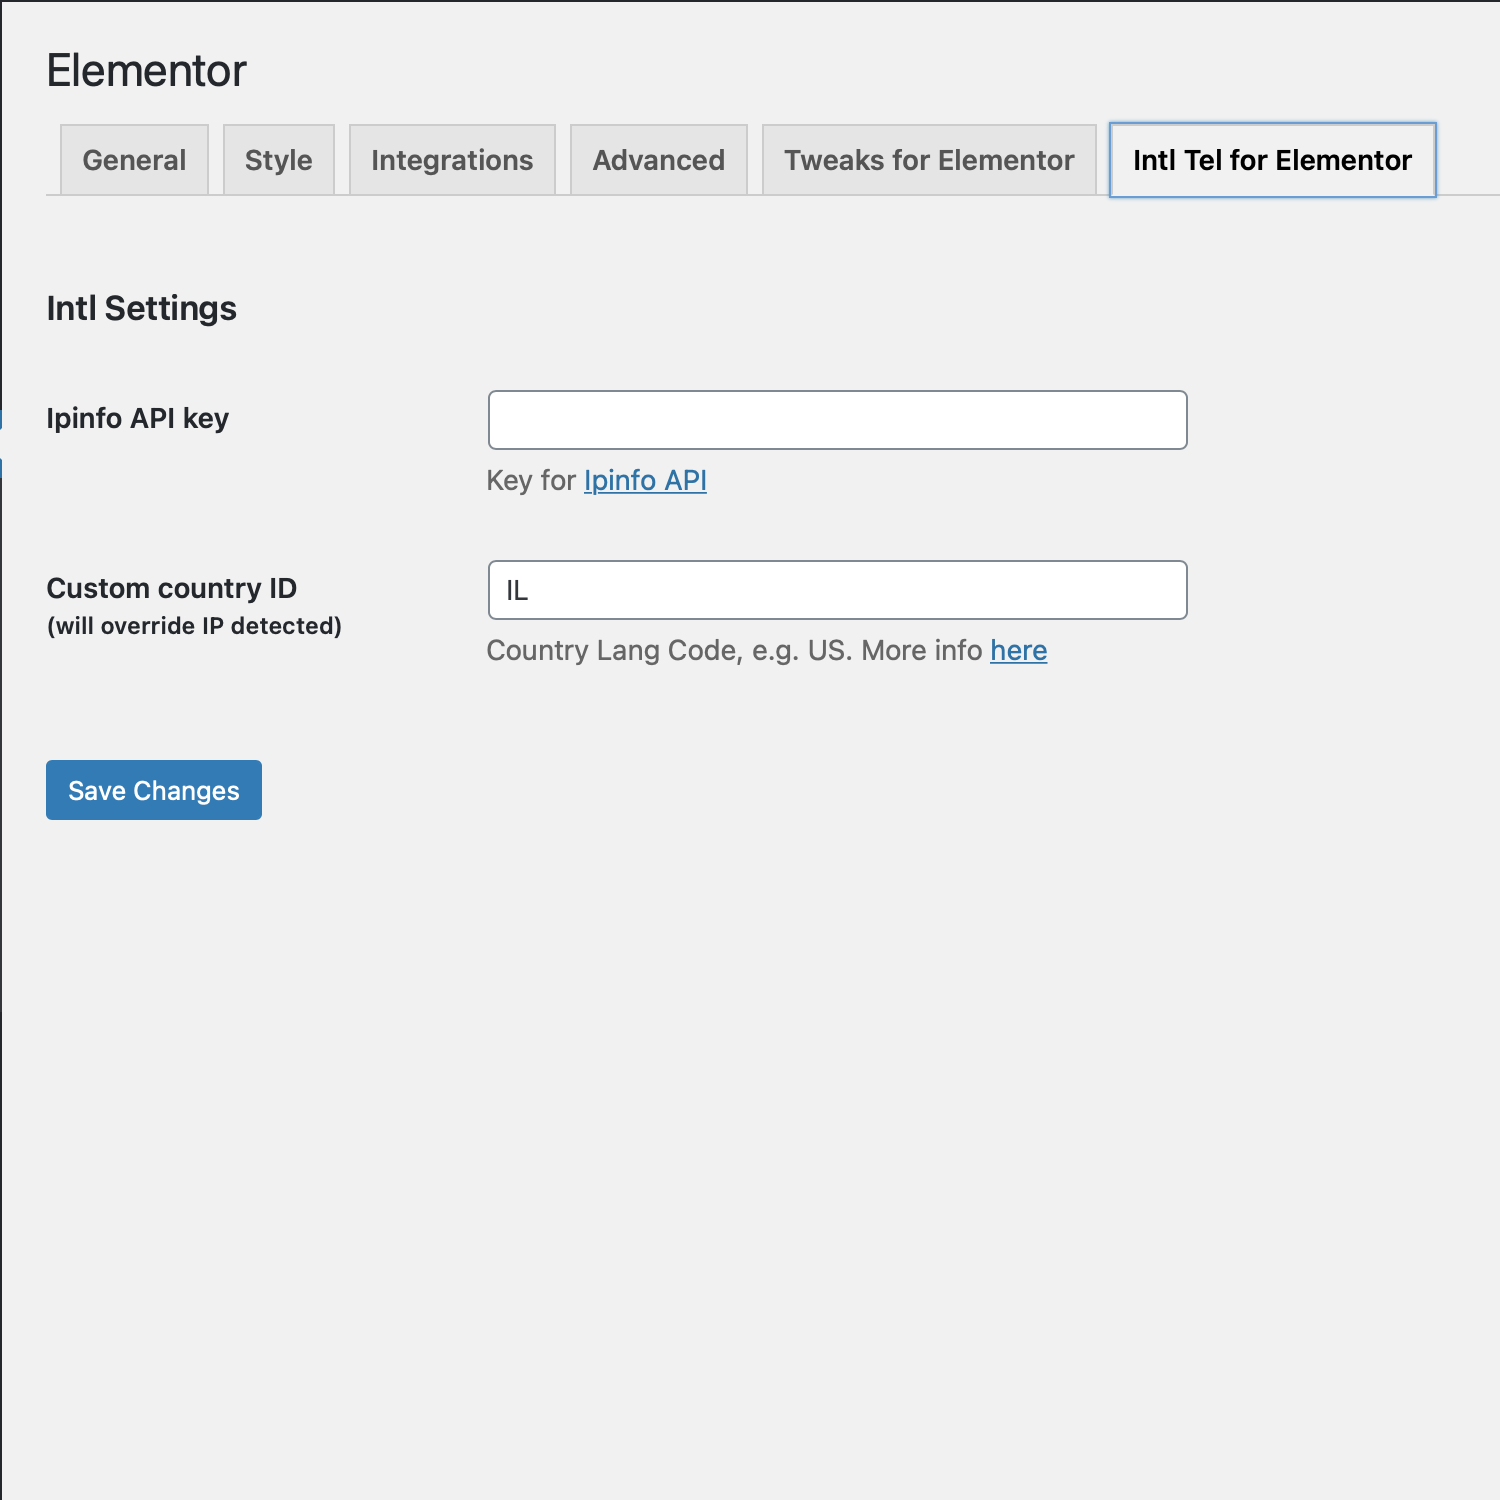
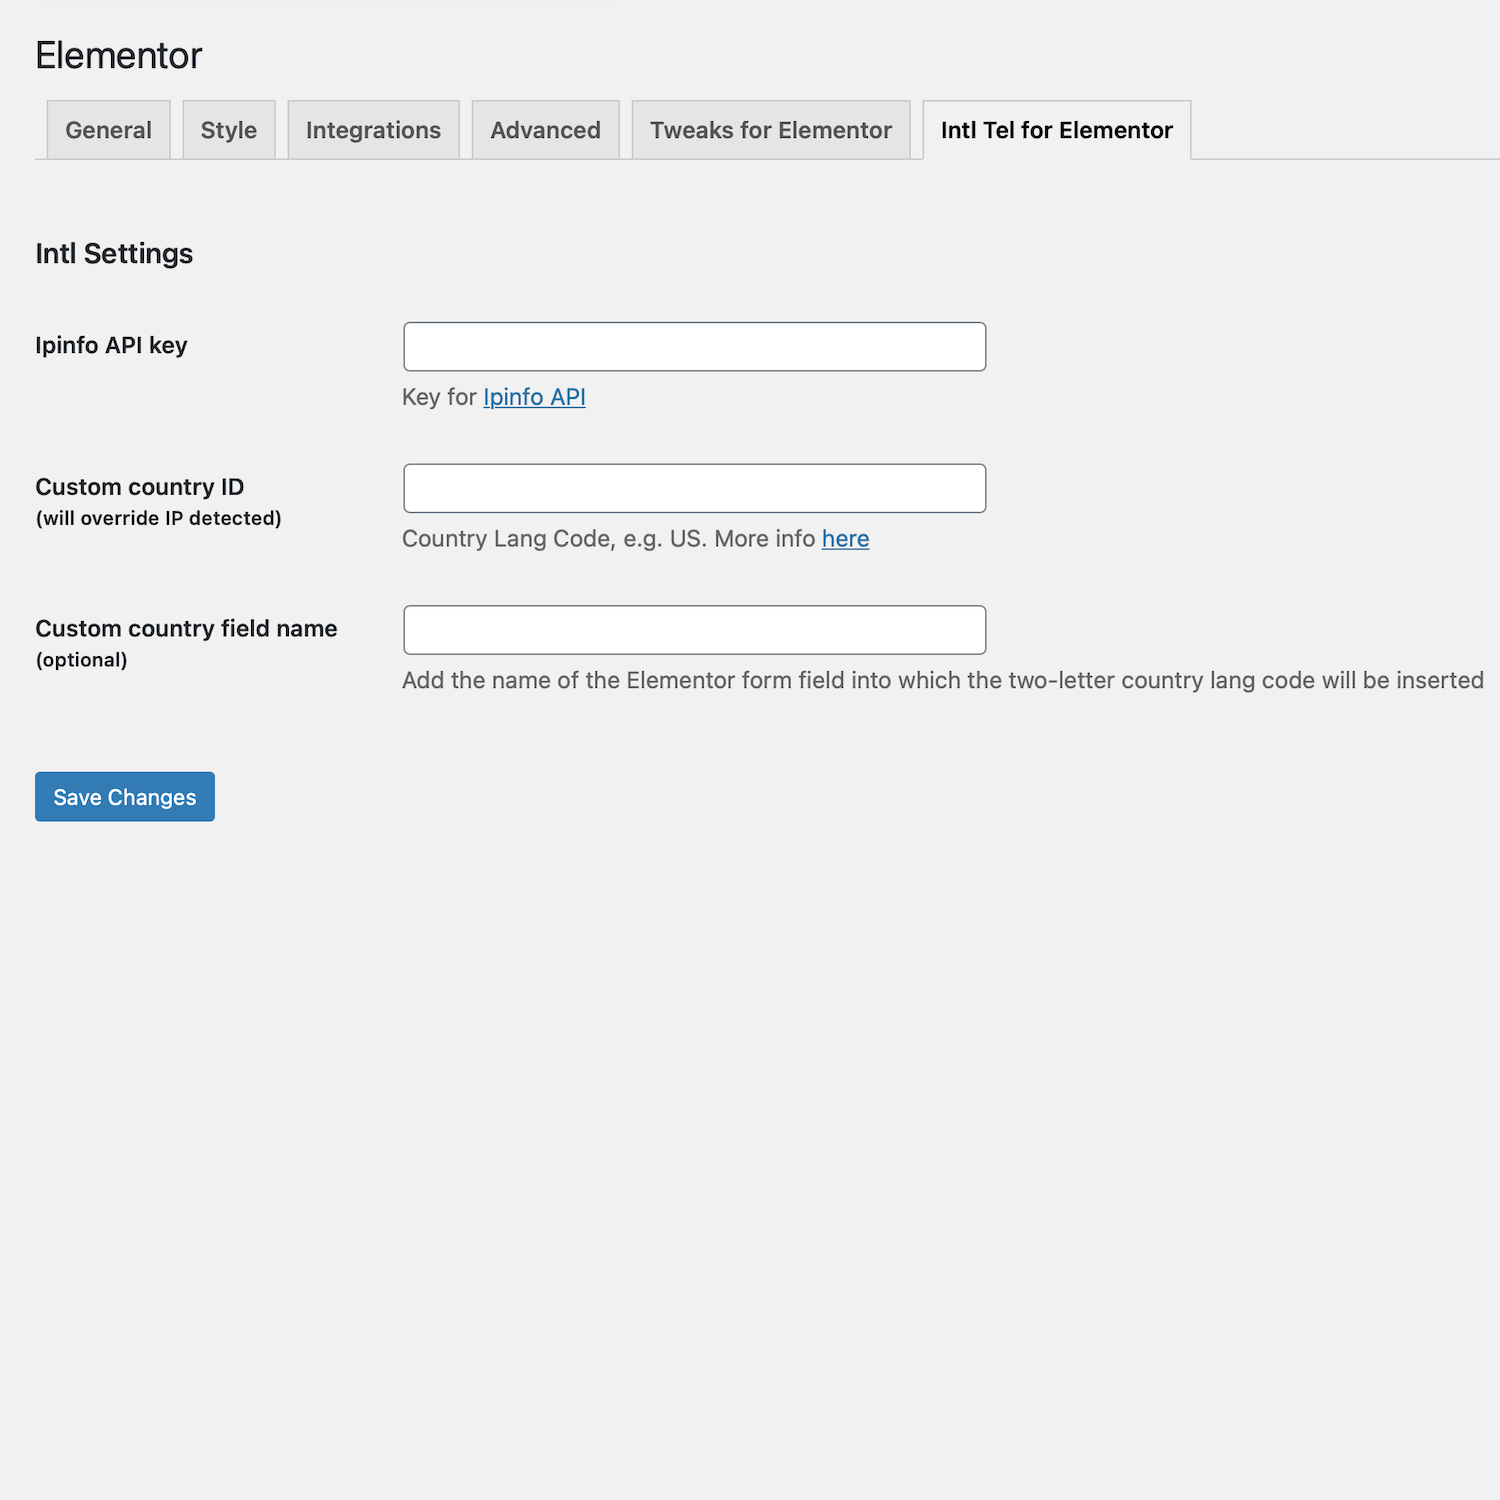
chore--version--merge with 1.0.3

diff --git a/includes/class-main.php b/includes/class-main.php
@@ -72,7 +72,7 @@ class Main {
 			 *
 			 * @param bool print_google_fonts Whether to enqueue Google fonts. Default is true.
 			 *
-			 * @since 1.0.2.1
+			 * @since 1.0.3
 			 */
 			add_filter( 'elementor/frontend/print_google_fonts', '__return_false' );
 		}
@@ -113,7 +113,7 @@ class Main {
 			 *
 			 * Fired by `wp_enqueue_scripts` action.
 			 *
-			 * @since 1.0.2.1
+			 * @since 1.0.3
 			 * @access public
 			 */
 			$elementor_icons = $this->get_option( 'elementor_icons' );
@@ -131,7 +131,7 @@ class Main {
 			/**
 			 * Add Tweaks CSS styles to a registered stylesheet if theme style disabled.
 			 *
-			 * @since 1.0.2.1
+			 * @since 1.0.3
 			 * @access public
 			 */
 			wp_add_inline_style( 'elementor-frontend', 'body{margin:0}' );
@@ -146,7 +146,7 @@ class Main {
 			/**
 			 * Register styles if !empty options intl_ip_info_api_key or intl_custom_country_id
 			 *
-			 * @since 1.0.2.1
+			 * @since 1.0.3
 			 * @access public
 			 */
 			wp_enqueue_style(
@@ -159,7 +159,7 @@ class Main {
 			/**
 			 * Register scripts if !empty options intl_ip_info_api_key or intl_custom_country_id
 			 *
-			 * @since 1.0.2.1
+			 * @since 1.0.3
 			 * @access public
 			 */
 			wp_enqueue_script(

diff --git a/tweaks-for-elementor.php b/tweaks-for-elementor.php
@@ -9,7 +9,7 @@
  * Plugin Name:       Tweaks for Elementor
  * Plugin URI:        https://wordpress.org/plugins/tweaks-for-elementor/
  * Description:       Tweaks for Elementor is simple plugin with few features to disable the default Fonts and CSS files of Elementor and Hello Elementor Theme
- * Version:           1.0.2.1
+ * Version:           1.0.3
  * Author:            WPBRO - Dima Minka
  * Author URI:        https://wpbro.ru
  * License:           GPL-2.0+
@@ -23,7 +23,7 @@ if ( ! defined( 'WPINC' ) ) {
 	die;
 }
 
-define( 'WPBRO_TWEAKS_FOR_ELEMENTOR_VERSION', '1.0.2.1' );
+define( 'WPBRO_TWEAKS_FOR_ELEMENTOR_VERSION', '1.0.3' );
 define( 'WPBRO_TWEAKS_FOR_ELEMENTOR_SLUG', 'Tweaks_For_Elementor' );
 define( 'WPBRO_TWEAKS_FOR_ELEMENTOR_FILE', __FILE__ );
 define( 'WPBRO_TWEAKS_FOR_ELEMENTOR_BASE', plugin_basename( __FILE__ ) );

diff --git a/includes/class-admin.php b/includes/class-admin.php
@@ -31,7 +31,7 @@ class Admin {
 	 *
 	 * Fired by `plugin_row_meta` filter.
 	 *
-	 * @since 1.0.2.1
+	 * @since 1.0.3
 	 * @access public
 	 *
 	 * @param array  $plugin_meta An array of the plugin's metadata, including
@@ -60,7 +60,7 @@ class Admin {
 	 *
 	 * Fired by `plugin_action_links` filter.
 	 *
-	 * @since 1.0.2.1
+	 * @since 1.0.3
 	 * @access public
 	 *
 	 * @param array $links An array of plugin action links.

diff --git a/README.md b/README.md
@@ -4,7 +4,7 @@
 - Tags: elementor, seo, optimization, speed, design, tweaks, intl-tel
 - Requires at least: 5.0
 - Tested up to: 5.4.1
-- Stable tag: 1.0.2.1
+- Stable tag: 1.0.3
 - Requires PHP: 5.6.20
 - License: GPLv2 or later
 - License URI: https://www.gnu.org/licenses/gpl-2.0.html
@@ -46,9 +46,8 @@ Tweaks for Elementor is simple plugin with few features to disable the default F
 
 ### Changelog
 
-##### Next tweaks (in progress)
-* disable elementor pro styles and scripts per page/post
-* disable additional scripts from elementor per page/post
+##### 1.0.3 (18.10.2020)
+* New: country code custom field supporting
 
 ##### 1.0.2.1 (18.10.2020)
 * Fix: country code to input and validation error
